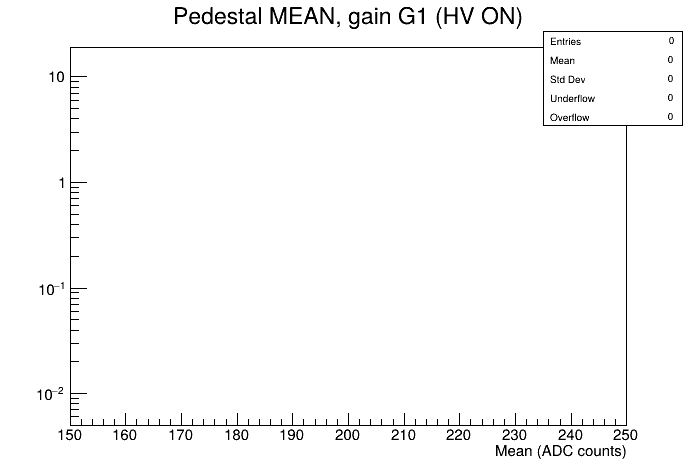
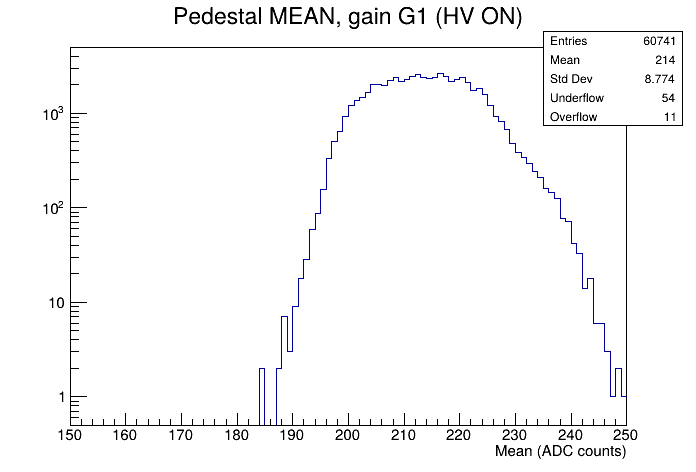
new images testing

diff --git a/GoodHealthCheck/1_keep/index.html b/GoodHealthCheck/1_keep/index.html
@@ -90,14 +90,14 @@ Click <a href="../1/report.html">here</a> to view report without these channels.
 		</tr>
 		<tr>
 			<td> Missing channels </td>
-			<td> 61200 </td>
-			<td> 61200 </td>
+			<td> 459 </td>
+			<td> 459 </td>
 			<td> 459 </td>
 		</tr>
 		<tr>
 			<td> Active  channels </td>
-			<td> 0 </td>
-			<td> 0 </td>
+			<td> 60741 </td>
+			<td> 60741 </td>
 			<td> 60741 </td>
 		</tr>
 	</table>
@@ -319,14 +319,14 @@ Click <a href="../1/report.html">here</a> to view report without these channels.
 		</tr>
 		<tr>
 			<td> Missing channels </td>
-			<td> 14648 </td>
-			<td> 14648 </td>
+			<td> 175 </td>
+			<td> 175 </td>
 			<td> 175 </td>
 		</tr>
 		<tr>
 			<td> Active  channels </td>
-			<td> 0 </td>
-			<td> 0 </td>
+			<td> 14473 </td>
+			<td> 14473 </td>
 			<td> 14473 </td>
 		</tr>
 	</table>
@@ -821,5 +821,5 @@ Click <a href="../1/report.html">here</a> to view report without these channels.
 		<li>LLERRO: MEAN > AVG * 0.1 and RMS / MEAN > 0.1 # <span class="caps">AVG</span> per subdetector</li>
 	</ul>
 
-	<p>Elapsed time: 0:01:01.576236</p></body>
+	<p>Elapsed time: 0:00:57.292437</p></body>
 </html>
